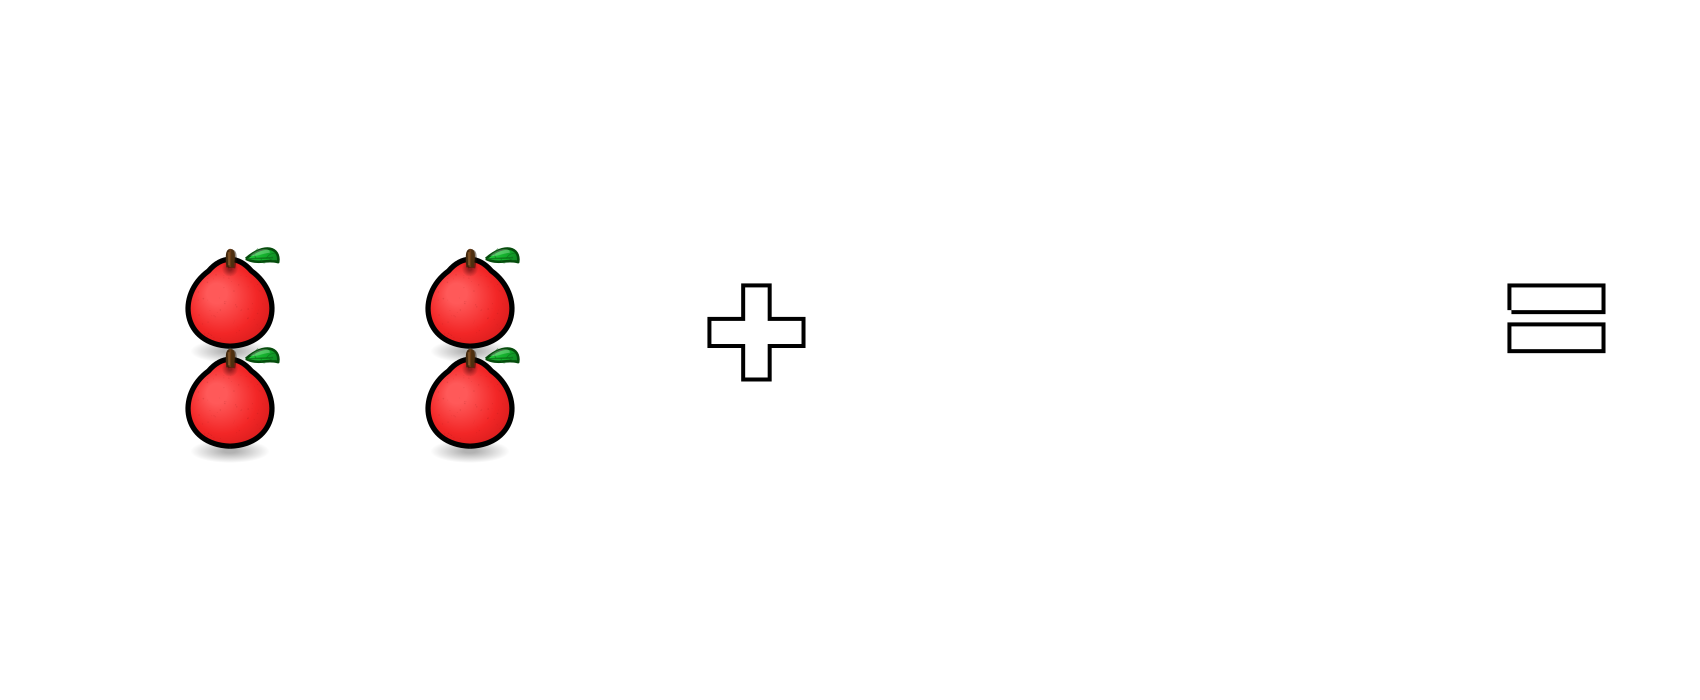
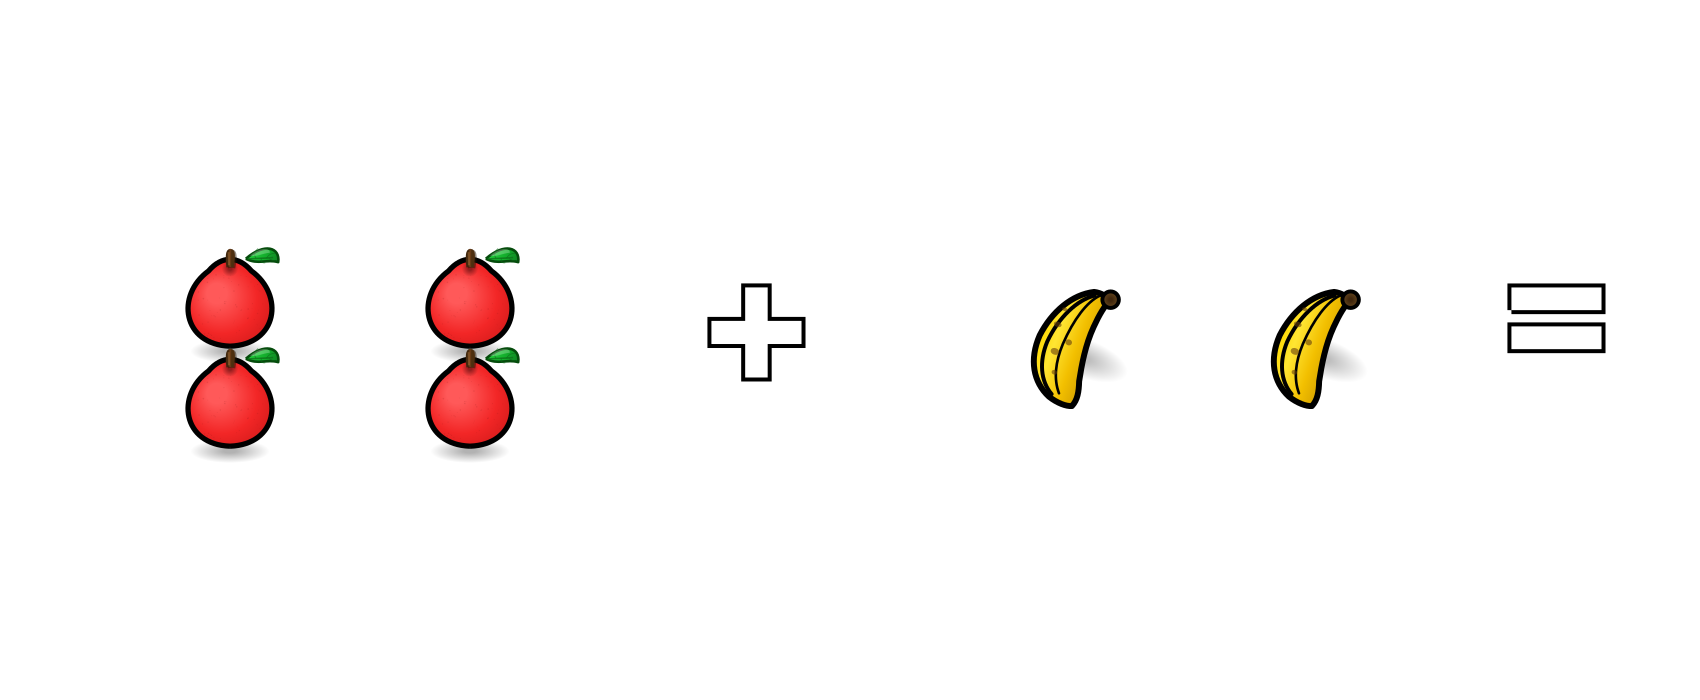
update main.py

Changed region(s): [[0.7482, 0.39, 0.8106, 0.6], [0.5924, 0.39, 0.6547, 0.6]]

diff --git a/src/main.py b/src/main.py
@@ -8,7 +8,9 @@ SCREEN_HEIGHT = 450
 screen = pygame.display.set_mode((SCREEN_WIDTH, SCREEN_HEIGHT))
 pygame.display.set_caption("FunCount")
 
+# =====================================
 # LOAD ASSETS
+# =====================================
 
 dashboard = pygame.image.load("assets/bg_utama.png").convert_alpha()
 dashboard = pygame.transform.scale(dashboard, (SCREEN_WIDTH, SCREEN_HEIGHT))
@@ -20,7 +22,6 @@ welcome_img = pygame.image.load("assets/welcome.png").convert_alpha()
 welcome_img = pygame.transform.scale(welcome_img, (500, 170))
 welcome_rect = welcome_img.get_rect(center=(SCREEN_WIDTH // 2, SCREEN_HEIGHT // 2 - 120))
 
-# Background halaman masing-masing mode
 bg_mh = pygame.image.load("assets/bg_menghitung.png").convert_alpha()
 bg_mh = pygame.transform.scale(bg_mh, (SCREEN_WIDTH, SCREEN_HEIGHT))
 
@@ -29,7 +30,6 @@ bg_pj = pygame.transform.scale(bg_pj, (SCREEN_WIDTH, SCREEN_HEIGHT))
 
 bg_pg = pygame.image.load("assets/bg_pengurangan.png").convert_alpha()
 bg_pg = pygame.transform.scale(bg_pg, (SCREEN_WIDTH, SCREEN_HEIGHT))
-
 
 # START BUTTON
 button_start_original = pygame.image.load("assets/button_start.png").convert_alpha()
@@ -43,8 +43,7 @@ button_start_big = pygame.transform.scale(button_start_original, BIG_SIZE)
 button_start = button_start_small
 button_start_rect = button_start.get_rect(center=(SCREEN_WIDTH // 2, SCREEN_HEIGHT // 2 + 40))
 
-
-# DASHBOARD MODE BUTTONS
+# DASHBOARD BUTTONS
 btn_mh_original = pygame.image.load("assets/button_menghitung.png").convert_alpha()
 btn_pj_original = pygame.image.load("assets/button_penjumlahan.png").convert_alpha()
 btn_pg_original = pygame.image.load("assets/button_pengurangan.png").convert_alpha()
@@ -66,8 +65,9 @@ btn_mh_rect = btn_mh.get_rect(center=(SCREEN_WIDTH // 2, 130))
 btn_pj_rect = btn_pj.get_rect(center=(SCREEN_WIDTH // 2, 250))
 btn_pg_rect = btn_pg.get_rect(center=(SCREEN_WIDTH // 2, 370))
 
-
+# =====================================
 # STATE SYSTEM
+# =====================================
 STATE_MENU_AWAL = 0
 STATE_DASHBOARD = 1
 STATE_MENGHITUNG = 2
@@ -76,19 +76,38 @@ STATE_PENGURANGAN = 4
 
 current_state = STATE_MENU_AWAL
 
+# =====================================
+# LOAD SOAL PENJUMLAHAN
+# =====================================
+soal_pj = []
+for i in range(1, 11):
+    img = pygame.image.load(f"assets/soalPenjumlahan{i}.png").convert_alpha()
+    img = pygame.transform.scale(img, (430, 210))
+    soal_pj.append(img)
+
+current_pj_level = 0
+
+# =====================================
+# LOAD SOAL PENGURANGAN
+# =====================================
+soal_pg = []
+for i in range(1, 11):
+    img = pygame.image.load(f"assets/soalPengurangan{i}.png").convert_alpha()
+    img = pygame.transform.scale(img, (430, 210))
+    soal_pg.append(img)
+
+current_pg_level = 0
 
 # =====================================
 # COUNTDOWN ASSET SYSTEM
 # =====================================
 countdown_imgs = {}
-
 for i in range(1, 11):
     img = pygame.image.load(f"assets/angka_{i}.png").convert_alpha()
     countdown_imgs[i] = pygame.transform.scale(img, (50, 50))
 
 countdown_start = None
 countdown_duration = 10  # 10 detik
-
 
 # =====================================
 # GAME LOOP
@@ -118,13 +137,14 @@ while running:
                 elif btn_pj_rect.collidepoint(mouse_pos):
                     current_state = STATE_PENJUMLAHAN
                     countdown_start = pygame.time.get_ticks()
+                    current_pj_level = 0
 
                 elif btn_pg_rect.collidepoint(mouse_pos):
                     current_state = STATE_PENGURANGAN
                     countdown_start = pygame.time.get_ticks()
+                    current_pg_level = 0
 
-
-    # =============== MENU AWAL ===============
+    # MENU AWAL
     if current_state == STATE_MENU_AWAL:
 
         if button_start_rect.collidepoint(mouse_pos):
@@ -138,8 +158,7 @@ while running:
         screen.blit(welcome_img, welcome_rect)
         screen.blit(button_start, button_start_rect)
 
-
-    # =============== DASHBOARD ===============
+    # DASHBOARD
     elif current_state == STATE_DASHBOARD:
 
         screen.blit(dashboard_blur, (0, 0))
@@ -156,42 +175,54 @@ while running:
         screen.blit(btn_pj, btn_pj_rect)
         screen.blit(btn_pg, btn_pg_rect)
 
-
-    # =============== MODE MENGHITUNG ===============
+    # MODE MENGHITUNG
     elif current_state == STATE_MENGHITUNG:
         screen.blit(bg_mh, (0, 0))
 
-
-    # =============== MODE PENJUMLAHAN ===============
+    # MODE PENJUMLAHAN
     elif current_state == STATE_PENJUMLAHAN:
 
         screen.blit(bg_pj, (0, 0))
 
+        # tampil soal
+        soal_img = soal_pj[current_pj_level]
+        rect = soal_img.get_rect(center=(SCREEN_WIDTH // 2, SCREEN_HEIGHT // 2))
+        screen.blit(soal_img, rect)
+
+        # countdown
         elapsed = (pygame.time.get_ticks() - countdown_start) // 1000
-        remaining = 10 - elapsed
+        remaining = countdown_duration - elapsed
 
         if remaining > 0:
             img = countdown_imgs.get(remaining)
-            rect = img.get_rect(topleft=(10, 10))   # pojok kiri atas
-            screen.blit(img, rect)
+            screen.blit(img, (10, 10))
         else:
-            current_state = STATE_DASHBOARD
+            current_pj_level += 1
+            if current_pj_level >= 10:
+                current_state = STATE_DASHBOARD
+            else:
+                countdown_start = pygame.time.get_ticks()
 
-
-    # =============== MODE PENGURANGAN ===============
+    # MODE PENGURANGAN
     elif current_state == STATE_PENGURANGAN:
 
         screen.blit(bg_pg, (0, 0))
 
+        soal_img = soal_pg[current_pg_level]
+        rect = soal_img.get_rect(center=(SCREEN_WIDTH // 2, SCREEN_HEIGHT // 2))
+        screen.blit(soal_img, rect)
+
         elapsed = (pygame.time.get_ticks() - countdown_start) // 1000
-        remaining = 10 - elapsed
+        remaining = countdown_duration - elapsed
 
         if remaining > 0:
             img = countdown_imgs.get(remaining)
-            rect = img.get_rect(topleft=(10, 10))   # pojok kiri atas
-            screen.blit(img, rect)
+            screen.blit(img, (10, 10))
         else:
-            current_state = STATE_DASHBOARD
-
+            current_pg_level += 1
+            if current_pg_level >= 10:
+                current_state = STATE_DASHBOARD
+            else:
+                countdown_start = pygame.time.get_ticks()
 
     pygame.display.update()

diff --git a/assets/code/soalpenjumlahan9.py b/assets/code/soalpenjumlahan9.py
@@ -24,9 +24,9 @@ def draw_row(ctx,fn,count,cx,cy):
         fn(ctx,cx+spacing_x/2,cy-spacing_y/4,0.33)
         fn(ctx,cx-spacing_x/2,cy+spacing_y/4,0.33)
         fn(ctx,cx+spacing_x/2,cy+spacing_y/4,0.33)
-    # elif count==2:
-    #     fn(ctx,cx-spacing_x/2,cy,0.33)
-    #     fn(ctx,cx+spacing_x/2,cy,0.33)
+    elif count==2:
+        fn(ctx,cx-spacing_x/2,cy,0.33)
+        fn(ctx,cx+spacing_x/2,cy,0.33)
 
 def make():
     width,height=1700,700
